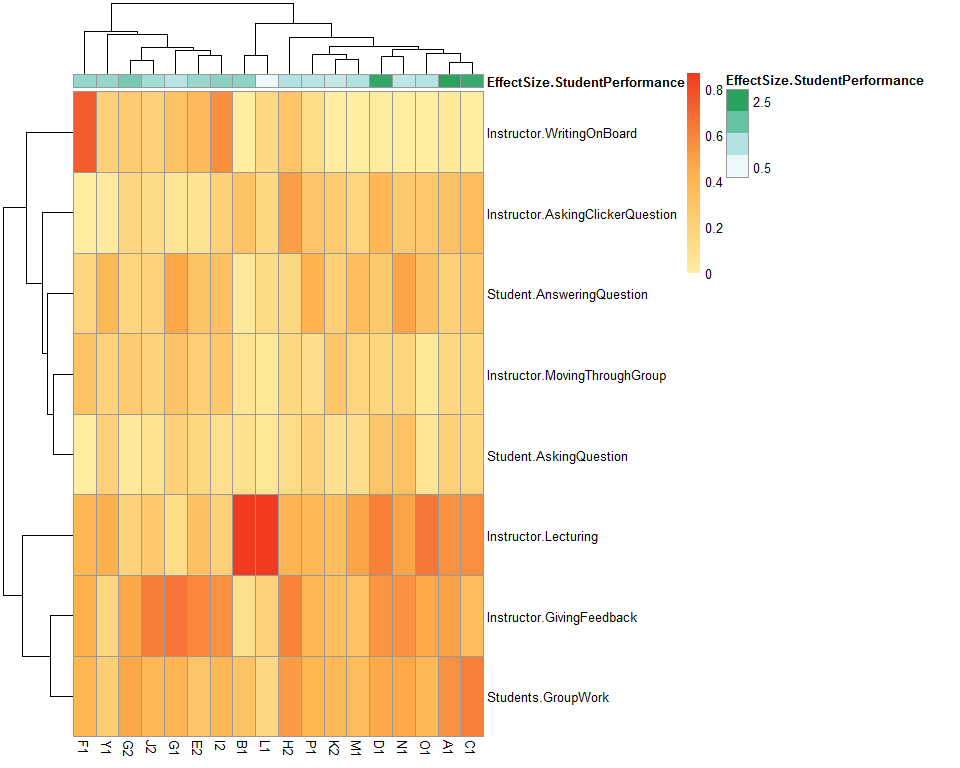
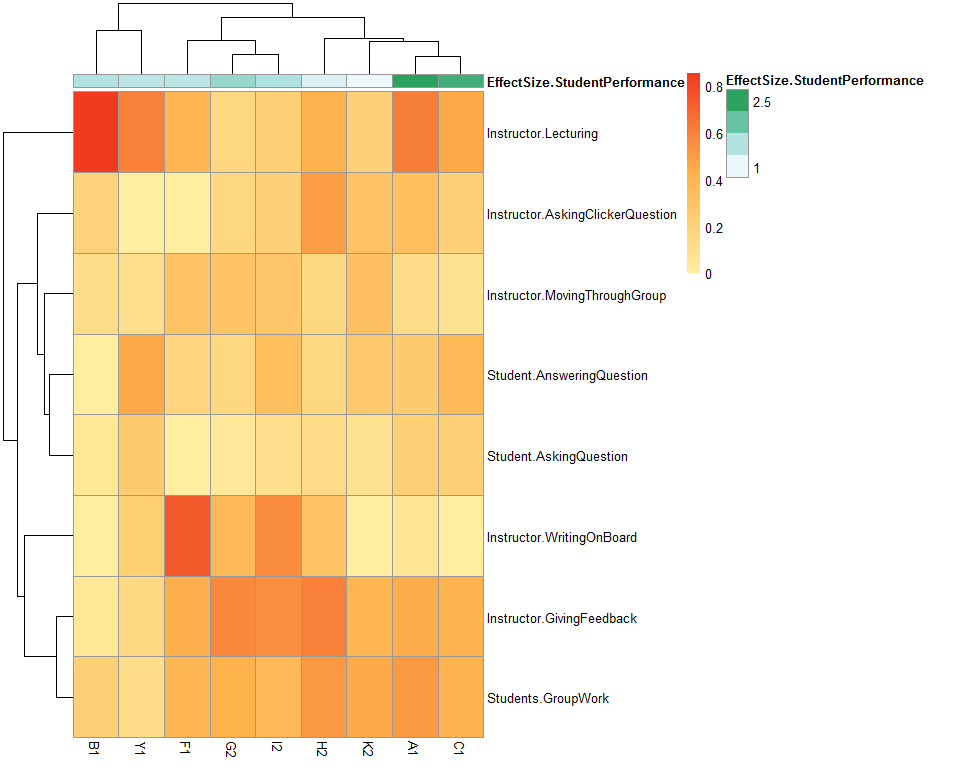
updated original file to include cleaning

diff --git a/COPUS-paper.md b/COPUS-paper.md
@@ -27,7 +27,7 @@ opts_chunk$set(echo=F)
 ## [1] "Number of Columns for all files: 31"
 ```
 
-Remove classes that are shorter than 43 minutes and longer than 51 minutes
+Remove classes that are shorter than 45 minutes and longer than 51 minutes
 
 
   x   freq
@@ -77,12 +77,12 @@ Notes from Megan: The 8 variables used in the Lund et al paper (and their short 
 
 | time|course |instructor |semester |observation |year | Student.AnsweringQuestion| Student.AskingQuestion| Instructor.AskingClickerQuestion| Instructor.GivingFeedback| Instructor.Lecturing| Instructor.WritingOnBoard| Instructor.MovingThroughGroup| Students.GroupWork|
 |----:|:------|:----------|:--------|:-----------|:----|-------------------------:|----------------------:|--------------------------------:|-------------------------:|--------------------:|-------------------------:|-----------------------------:|------------------:|
-|    2|11     |A          |1        |1           |1    |                         0|                      0|                                1|                         1|                    0|                         0|                             0|                  1|
-|    4|11     |A          |1        |1           |1    |                         0|                      0|                                0|                         0|                    0|                         0|                             0|                  1|
-|    6|11     |A          |1        |1           |1    |                         0|                      0|                                1|                         1|                    1|                         0|                             0|                  1|
-|    8|11     |A          |1        |1           |1    |                         0|                      0|                                1|                         1|                    0|                         0|                             0|                  1|
-|   10|11     |A          |1        |1           |1    |                         0|                      1|                                0|                         1|                    0|                         0|                             0|                  0|
-|   12|11     |A          |1        |1           |1    |                         0|                      0|                                0|                         1|                    0|                         0|                             0|                  1|
+|    2|11     |A          |1        |2           |1    |                         1|                      0|                                0|                         0|                    1|                         0|                             0|                  1|
+|    4|11     |A          |1        |2           |1    |                         0|                      1|                                0|                         1|                    1|                         0|                             0|                  0|
+|    6|11     |A          |1        |2           |1    |                         0|                      0|                                1|                         0|                    0|                         0|                             0|                  1|
+|    8|11     |A          |1        |2           |1    |                         0|                      0|                                1|                         0|                    1|                         0|                             0|                  0|
+|   10|11     |A          |1        |2           |1    |                         0|                      0|                                1|                         1|                    1|                         0|                             0|                  1|
+|   12|11     |A          |1        |2           |1    |                         0|                      0|                                1|                         1|                    0|                         0|                             0|                  1|
 
 ## Process the class performance data
 
@@ -117,7 +117,7 @@ Notes from Megan: The 8 variables used in the Lund et al paper (and their short 
 
 ![](COPUS-paper_files/figure-html/instructors_per_course-1.png)
 
-## Fractional amount of time spent on each category for course `12`, `21`, and `11`, further granuarized by instructor
+## Fractional amount of time spent on each category for course `12`, and `11`, further granuarized by instructor
 
 The labels in each box represents the course id
 
@@ -146,85 +146,24 @@ It really doesn't make sense to look across courses since different courses have
 
 |course |measure                          | mean_frac_time| sd_frac_time|
 |:------|:--------------------------------|--------------:|------------:|
-|11     |Instructor.GivingFeedback        |      0.3695967|    0.1952960|
-|11     |Instructor.Lecturing             |      0.6452251|    0.1506574|
-|11     |Students.GroupWork               |      0.4838322|    0.1345030|
-|12     |Instructor.WritingOnBoard        |      0.3272549|    0.2142247|
-|12     |Instructor.GivingFeedback        |      0.4915614|    0.1548330|
-|12     |Instructor.AskingClickerQuestion |      0.1565821|    0.1544680|
-|21     |Instructor.Lecturing             |      0.5679053|    0.1919070|
-|21     |Instructor.GivingFeedback        |      0.3833762|    0.1373068|
-|21     |Student.AnsweringQuestion        |      0.3404814|    0.1301166|
+|11     |Instructor.GivingFeedback        |      0.3015298|    0.2239104|
+|11     |Instructor.Lecturing             |      0.6415056|    0.2001084|
+|11     |Student.AnsweringQuestion        |      0.2083333|    0.1909407|
+|12     |Instructor.WritingOnBoard        |      0.3649902|    0.2586767|
+|12     |Instructor.AskingClickerQuestion |      0.1942466|    0.1904896|
+|12     |Instructor.GivingFeedback        |      0.4514269|    0.1698411|
 
 ```
 ## Joining by: c("course", "measure")
 ```
 
 ```
-## Joining by: c("course", "instructor", "semester")
+## Joining by: c("course", "instructor", "semester", "EffectSize.StudentPerformance")
 ```
 
 ![](COPUS-paper_files/figure-html/correlate_variable_activities-1.png)
 
 
-# Question 2: Which activities (individually) explains the largest variability in student performance across all courses?
-
-### Multiple linear regression
-
-#### Transform data for regression modelling
-
-
-```
-## Joining by: c("course", "instructor", "semester")
-```
-
-
-
-|course |instructor |semester | Instructor.AskingClickerQuestion| Instructor.GivingFeedback| Instructor.Lecturing| Instructor.MovingThroughGroup| Instructor.WritingOnBoard| Student.AnsweringQuestion| Student.AskingQuestion| Students.GroupWork| EffectSize.StudentPerformance|
-|:------|:----------|:--------|--------------------------------:|-------------------------:|--------------------:|-----------------------------:|-------------------------:|-------------------------:|----------------------:|------------------:|-----------------------------:|
-|11     |A          |1        |                        0.3191489|                 0.4893617|            0.5425532|                     0.1595745|                 0.0425532|                 0.2234043|              0.2021277|          0.5531915|                          2.91|
-|11     |B          |1        |                        0.3046875|                 0.1015625|            0.8671875|                     0.0625000|                 0.0000000|                 0.0390625|              0.0937500|          0.3046875|                          1.51|
-|11     |C          |1        |                        0.3508772|                 0.3508772|            0.5614035|                     0.1578947|                 0.0000000|                 0.2631579|              0.1578947|          0.6140351|                          2.65|
-|11     |D          |1        |                        0.3902439|                 0.5365854|            0.6097561|                     0.1707317|                 0.0243902|                 0.2682927|              0.2926829|          0.4634146|                          2.75|
-|12     |E          |2        |                        0.0759494|                 0.5822785|            0.3291139|                     0.2278481|                 0.3670886|                 0.3037975|              0.1645570|          0.2911392|                          1.36|
-|12     |F          |1        |                        0.0000000|                 0.4347826|            0.3913043|                     0.3043478|                 0.7391304|                 0.1739130|              0.0000000|          0.3913043|                          1.41|
-
-#### Predicting student performance as a function of all our variables
-
-
-```
-## 
-## Call:
-## glm(formula = as.formula(paste("EffectSize.StudentPerformance ~ ", 
-##     paste(predicting_variables, collapse = "+"))), data = summary_of_fract_time_spent %>% 
-##     filter(course %in% course_of_interest))
-## 
-## Deviance Residuals: 
-##      Min        1Q    Median        3Q       Max  
-## -0.83920  -0.26548  -0.03268   0.25759   0.69183  
-## 
-## Coefficients:
-##                                  Estimate Std. Error t value Pr(>|t|)  
-## (Intercept)                        0.2892     1.7392   0.166   0.8716  
-## Instructor.AskingClickerQuestion  -3.0389     1.9596  -1.551   0.1554  
-## Instructor.GivingFeedback         -0.9936     1.4141  -0.703   0.5000  
-## Instructor.Lecturing               0.1386     1.6344   0.085   0.9343  
-## Instructor.MovingThroughGroup     -1.3240     3.7018  -0.358   0.7288  
-## Instructor.WritingOnBoard          0.4811     1.0130   0.475   0.6461  
-## Student.AnsweringQuestion         -3.5912     2.0192  -1.779   0.1090  
-## Student.AskingQuestion             5.5225     2.6839   2.058   0.0697 .
-## Students.GroupWork                 6.3983     2.0347   3.145   0.0118 *
-## ---
-## Signif. codes:  0 '***' 0.001 '**' 0.01 '*' 0.05 '.' 0.1 ' ' 1
-## 
-## (Dispersion parameter for gaussian family taken to be 0.3048466)
-## 
-##     Null deviance: 8.7000  on 17  degrees of freedom
-## Residual deviance: 2.7436  on  9  degrees of freedom
-## AIC: 37.222
-## 
-## Number of Fisher Scoring iterations: 2
-```
 
 # Question 3 - which classes are arranged such that they have similar amounts of time spent on each activity?
 
@@ -237,6 +176,4 @@ The more "red" the color, the more time that activity is spent on class
 ## What about across all courses?
 
 
-
 ![](COPUS-paper_files/figure-html/all_courses_clustering-1.png)
-
